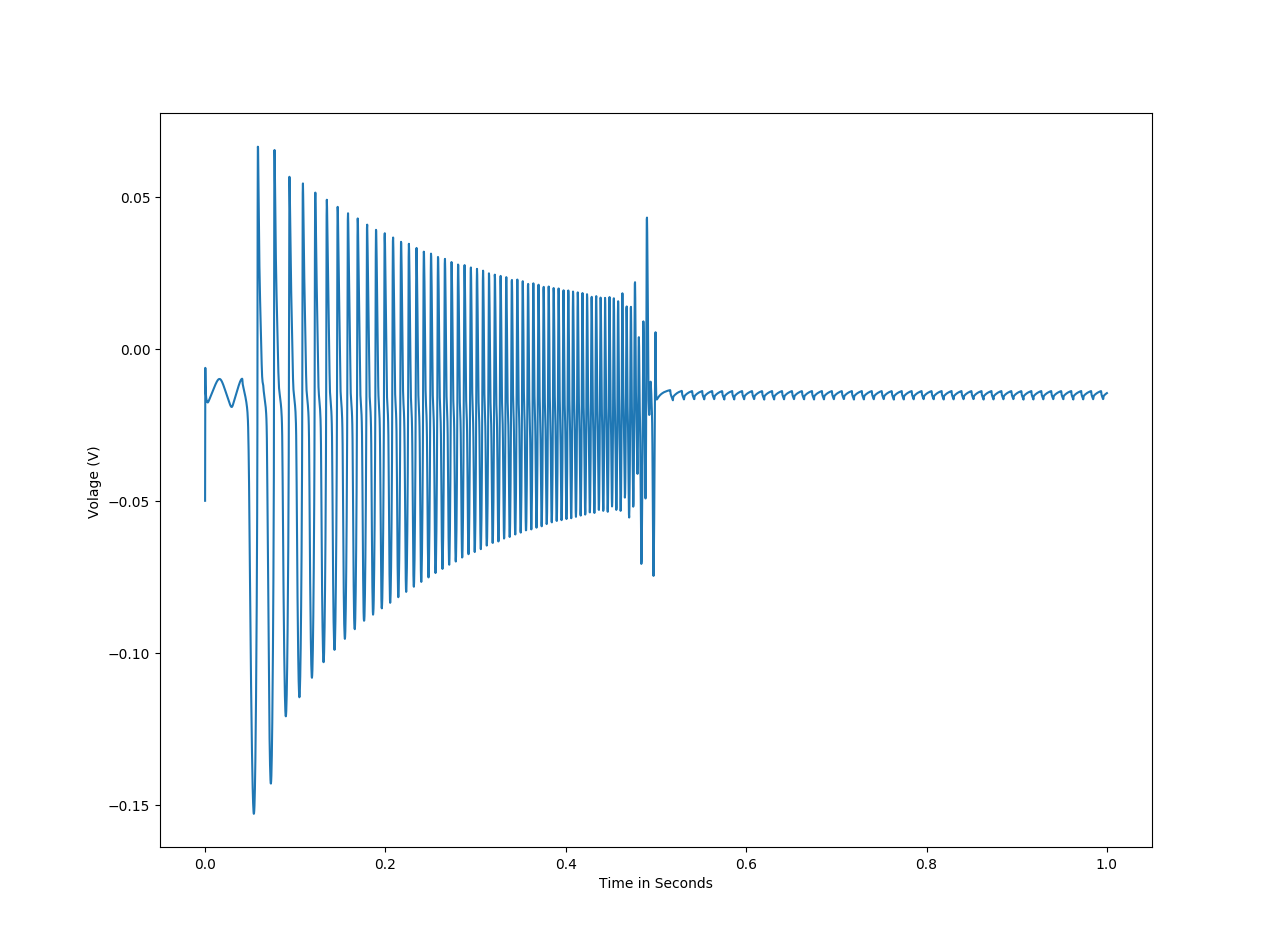
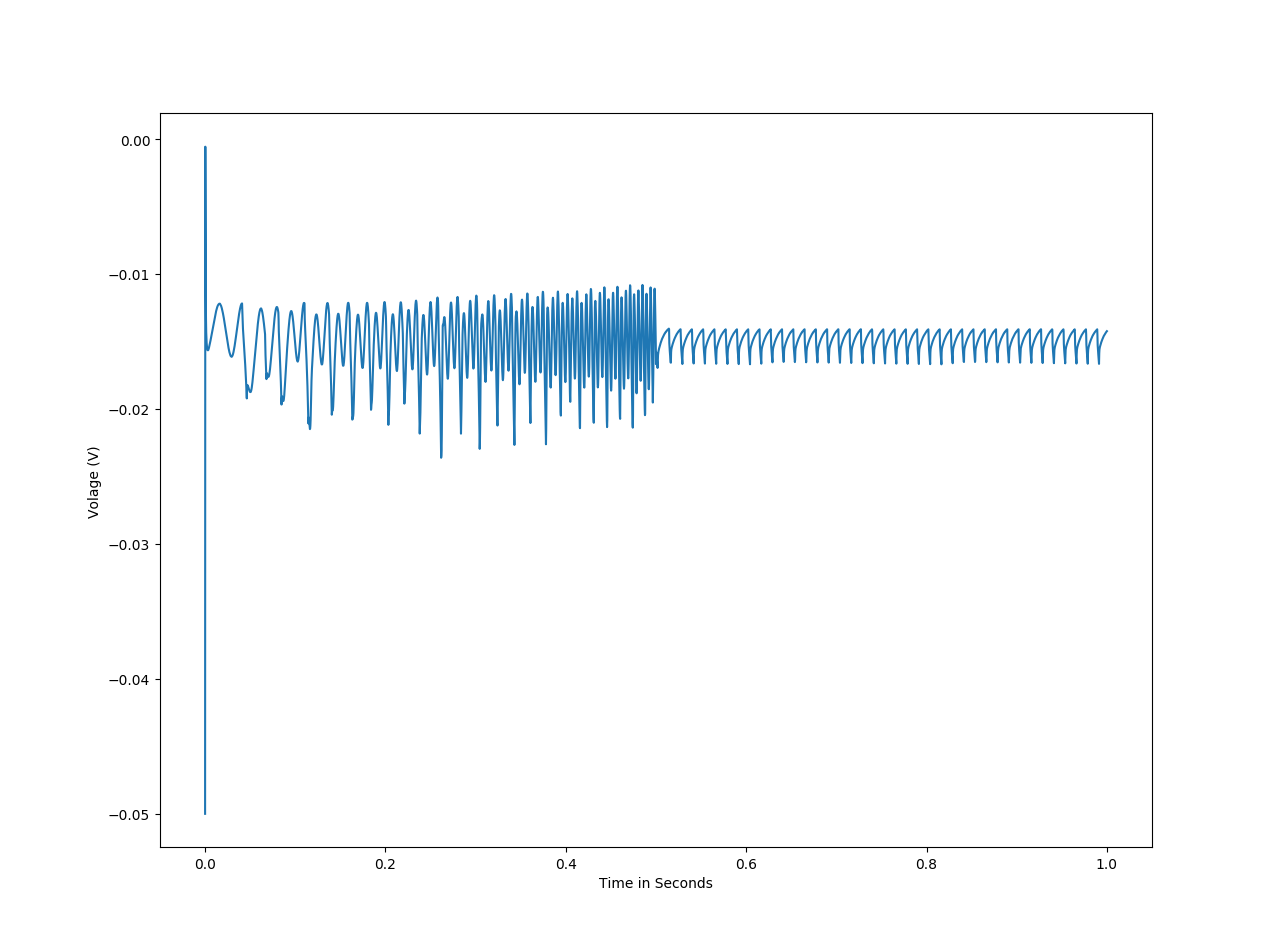
Project completed prepare ppt.

diff --git a/NEUR634_homework/project/simple_model_chrp.py b/NEUR634_homework/project/simple_model_chrp.py
@@ -11,14 +11,14 @@ from utilities import create_pulse_generator
 from utilities import create_output_table
 from utilities import plot_vm_table
 from utilities import create_set_of_channels
-from utilities import copy_connect_channel_moose_paths
-from utilities import create_ca_conc_pool
-from utilities import copy_ca_pools_moose_paths
-from utilities import connect_ca_pool_to_chan
-from channels import channel_settings
-from channels import ca_params
+from channels_p_2 import channel_settings
+from channels_p_2 import ca_params
 from utilities import create_compartment
 from utilities import compute_comp_area
+from utilities_p import create_ca_conc_pool
+from utilities_p import copy_ca_pools_moose_paths
+from utilities_p import connect_ca_pool_to_chan
+from utilities import copy_connect_channel_moose_paths
 
 EREST_ACT = -70e-3 #: Resting membrane potential ??? where in paper???
 VMIN = -30e-3 + EREST_ACT
@@ -54,7 +54,7 @@ def simple_model(model_name, comp_passive, channel_settings, ca_params, length, 
         length = length
 
         inj_delay = 20E-3
-        inj_amp = 1E-9
+        inj_amp = 10E-9
         inj_width = 40E-3
 
         # Model creation
@@ -111,7 +111,7 @@ def main(model_name, comp_passive, channel_settings, ca_params):
     length = 20e-6
 
     inj_delay = 20E-3
-    inj_amp = 1E-9 #0
+    inj_amp = 5E-3 #0
     inj_width = 500E-3
 
 
@@ -152,12 +152,44 @@ def main(model_name, comp_passive, channel_settings, ca_params):
         moose.reinit()
         moose.start(simtime)
         #plot_internal_currents(*tabs['internal_currents'])
-        plot_vm_table(simtime, tabs['vm'][0], soma_c_table, title='Conductances: ca_V1(L): {1}, Ca_V2 (N) :{0}, ca_cc :{2} K : {3}'.format(V1, V2, cc, K), xlab="Time in Seconds", ylab="Volage (V)")
+        plot_vm_table(simtime, tabs['vm'][0], title='Conductances: ca_V1(L): {1}, Ca_V2 (N) :{0}, ca_cc :{2} K : {3}'.format(V1, V2, cc, K), xlab="Time in Seconds", ylab="Volage (V)")
         plt.show()
 
     # plot chirp signal
-    #plt.plot(soma_c_table.vector)
-    #plt.show()
+    plt.plot(soma_c_table.vector)
+    plt.show()
+
+    current_time_domain = soma_c_table.vector
+    voltage_time_domain = tabs['vm'][0].vector
+    import scipy.fftpack as fftpack
+    current_fft = fftpack.fft(current_time_domain)
+    voltage_fft = fftpack.fft(voltage_time_domain)
+    current_magnitude = np.abs(current_fft)
+    voltage_magnitude = np.abs(voltage_fft)
+    current_phase = np.angle(current_fft)
+    voltage_phase = np.angle(voltage_fft)
+    freq_current = np.fft.fftfreq(len(current_fft), simdt)
+    freq_voltage = np.fft.fftfreq(len(voltage_fft), simdt)
+    plt.figure("chirp")
+    plt.subplot(211)
+    plt.plot(freq_current, current_magnitude)
+    plt.xlabel('Frequecy (Hz)')
+    plt.ylabel('Magnitude (mA)')
+    plt.subplot(212)
+    plt.plot(freq_voltage, voltage_magnitude)
+    plt.xlabel('Frequecy (Hz)')
+    plt.ylabel('Volts (V)')
+    plt.figure("membrane impedence")
+    plt.subplot(211)
+    plt.plot(freq_voltage, voltage_magnitude/current_magnitude)
+    plt.xlabel('Frequecy (Hz)')
+    plt.ylabel('ohms ($\Omega$)')
+    plt.title('membrance impedance')
+    plt.subplot(212)
+    plt.plot(freq_voltage, voltage_phase - current_phase)
+    plt.xlabel('Frequecy (Hz)')
+    plt.ylabel('phase ($\Theta$)')
+    plt.show()
 
     # from moose_nerp.graph import plot_channel
     # for channel in channel_settings:

diff --git a/NEUR634_homework/project/simple_model_p.py b/NEUR634_homework/project/simple_model_p.py
@@ -54,7 +54,7 @@ def simple_model(model_name, comp_passive, channel_settings, ca_params, length, 
 
         inj_delay = 20E-3
         inj_amp = 1E-9
-        inj_width = 40E-3
+        inj_width = 100E-3
 
         # Model creation
         soma = create_compartment('soma', length, diameter, comp_passive['RM'], comp_passive['CM'], initVM=comp_passive['EM'], ELEAK=comp_passive['EM'])
@@ -156,27 +156,6 @@ def main(model_name, comp_passive, channel_settings, ca_params):
                     # cond(k=0.5, Ltype=0.18, Ntype=0.4, cl=0),   # cl-type Current abolish test
                      cond(k=0.3775621, Ltype=0.18, Ntype=0.4, cl=40),   # cl-type Current abolish test
                      ]
-    # max_min = [10, 0.1]
-    # maxs_1 = [0.5E-3]
-    # maxs_2 = [0.18E-3]
-    # maxs_3 = [0.4E-3]
-    # maxs_4 = [40E-3]
-    # from itertools import product
-    # for m, _1, _2, _3, _4 in product(max_min, maxs_1, maxs_2, maxs_3, maxs_4):
-    #     print( m*_1, m*_2, m*_3, m*_4)
-    #
-    # from itertools import permutations
-    # max_min = [10, 0.1]
-    # maxs_s = [0.5E-3, 0.18E-3, 0.4E-3, 40E-3]
-    # combs = [zip(m, max_min) for m in permutations(maxs_s, len(max_min))]
-    # scaled_vals = []
-    # for item in combs:
-    #     l = []
-    #     for x,y in item:
-    #         print(x, y)
-    #     #scaled_vals.append(l)
-    #print(scaled_vals)
-
 
 
     for K, V1, V2, cc in test_conductances:

diff --git a/NEUR634_homework/project/utilities_p.py b/NEUR634_homework/project/utilities_p.py
@@ -146,7 +146,8 @@ def create_conc_dependent_z_gate(chan, params, cadivs, camin, camax):
     zgate = moose.HHGate(chan.path + '/gateZ')
     zgate.min, zgate.max = camin, camax
     ca_conc_points = np.linspace(camin, camax, cadivs)
-    z_inf = 1/(ca_conc_points**2 + params.kd**2)     # As per paper.
+    # z_inf = 1/(ca_conc_points**2 + params.kd**2)     # As per paper.
+    z_inf = ca_conc_points**2/(ca_conc_points**2 + params.kd**2)     # correction after dan email.
     z_tau = params.tau*np.ones(len(ca_conc_points))
     zgate.tableA = z_inf / z_tau
     zgate.tableB = 1 / z_tau
